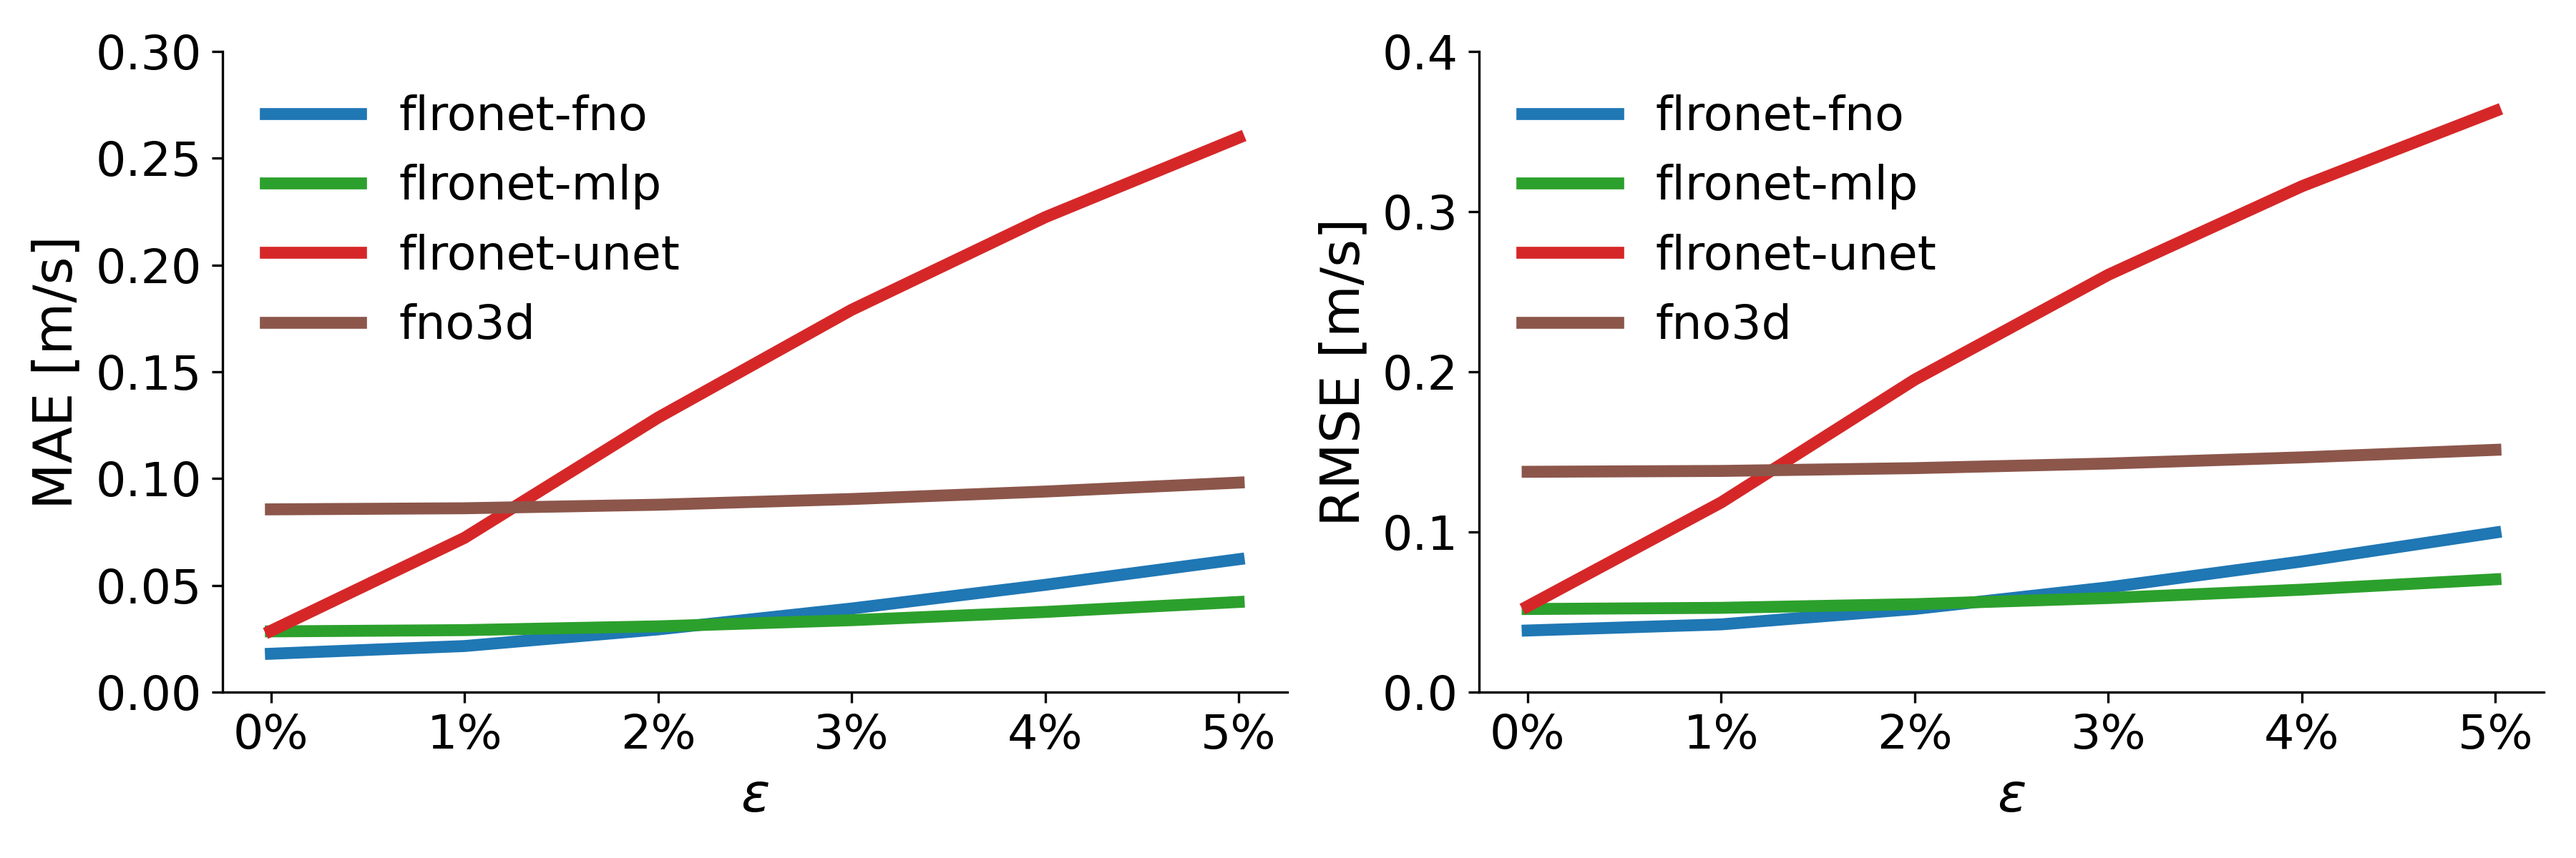
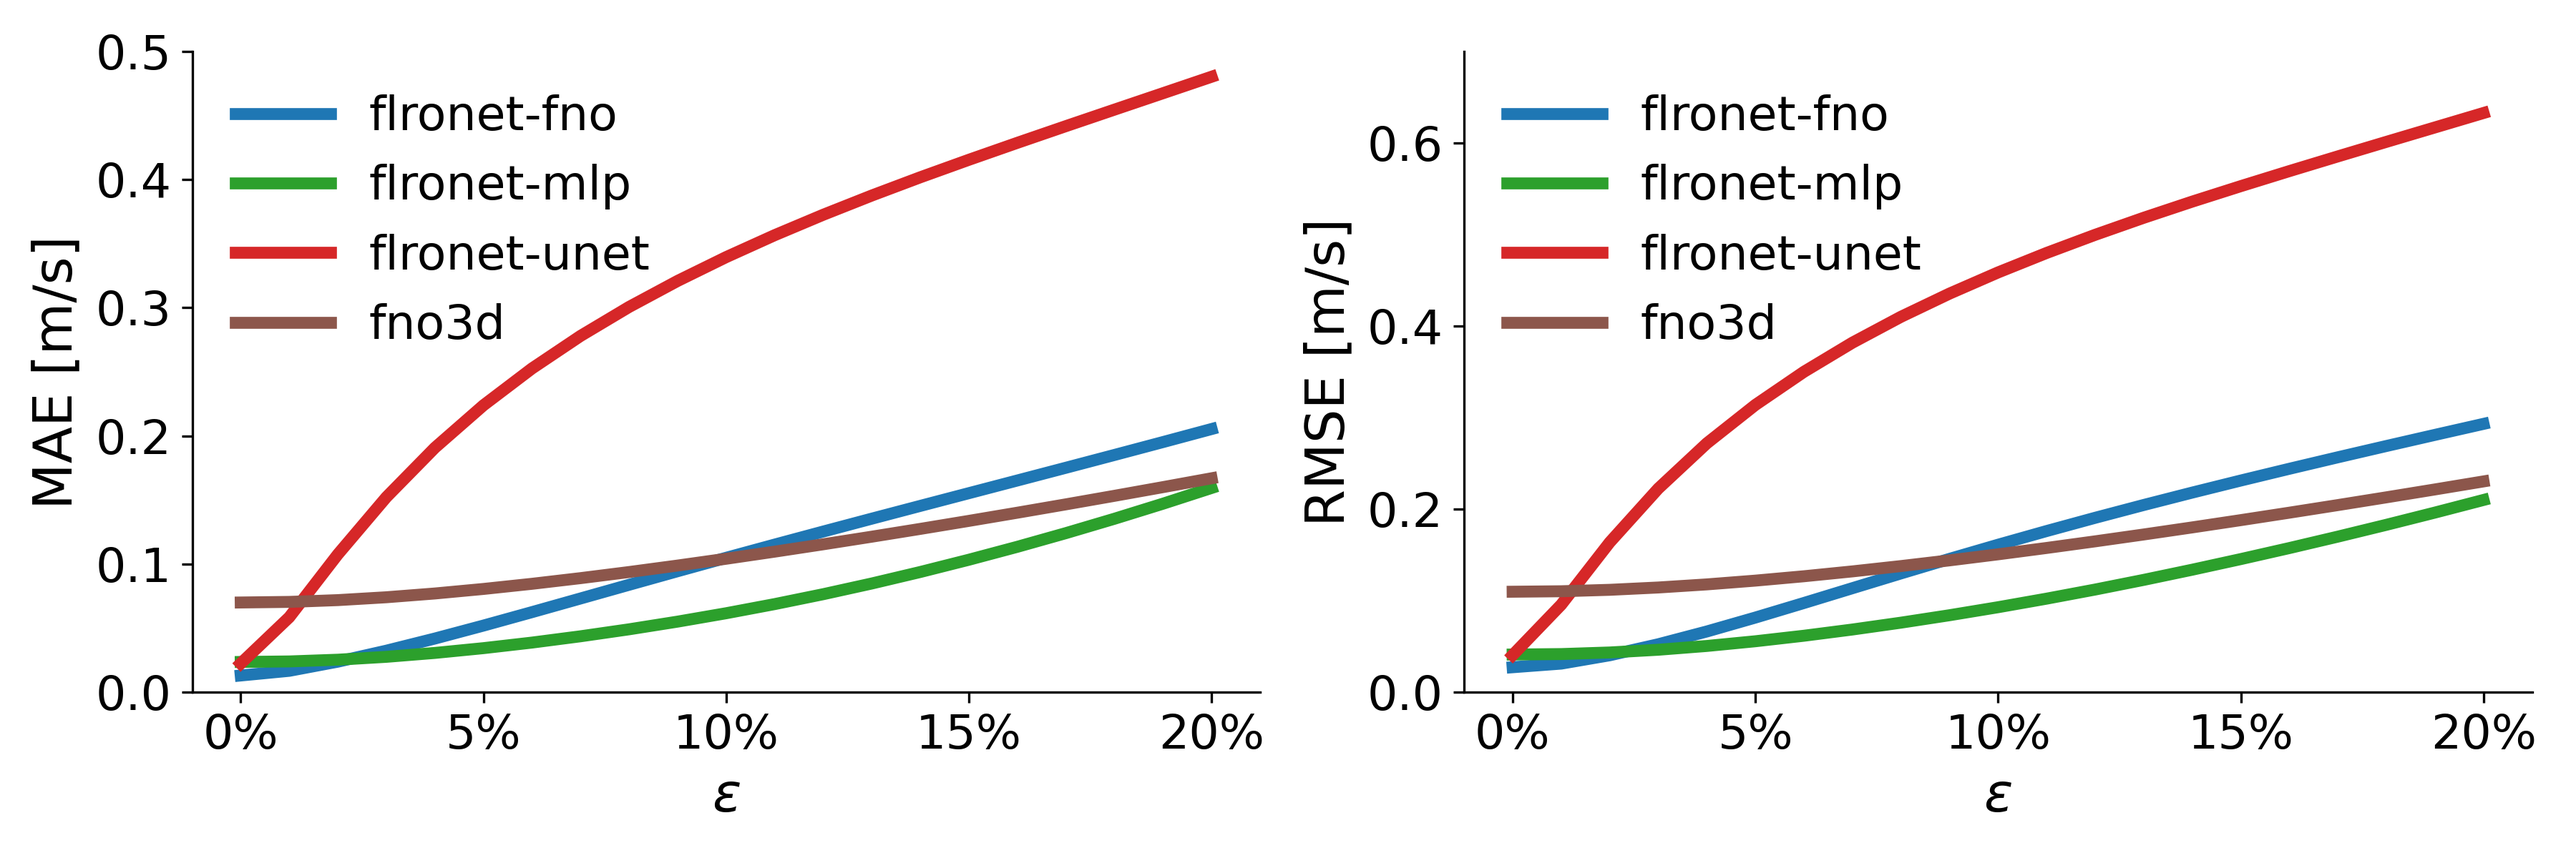
update noise experiments

diff --git a/report/super_res_space.py b/report/super_res_space.py
@@ -14,9 +14,9 @@ fig, axs = plt.subplots(1, 2, figsize=(10, 3.5))
 # V100 subplot
 axs[0].plot(positions, flronet_v100, marker='s', linestyle='-', color='tab:blue', label="flronet-fno", linewidth=2, markersize=6)
 axs[0].plot(positions, fno3d_v100, marker='s', linestyle='-', color='tab:red', label="fno3d", linewidth=2, markersize=6)
-axs[0].set_title("Tesla V100", fontsize=18)
-axs[0].set_xlabel("Scale", fontsize=16, labelpad=10)
-axs[0].set_ylabel("Inference Time [s]", fontsize=18, labelpad=10)
+axs[0].set_title("Tesla V100", fontsize=16)
+axs[0].set_xlabel("Scale", fontsize=14, labelpad=10)
+axs[0].set_ylabel("Inference Time [s]", fontsize=16, labelpad=10)
 axs[0].set_xticks(positions)
 axs[0].set_xticklabels(scales, fontsize=14)
 axs[0].tick_params(axis='both', which='major', length=6, width=1.3, labelsize=14)
@@ -29,8 +29,8 @@ axs[0].spines['bottom'].set_linewidth(1.3)
 # A100 subplot
 axs[1].plot(positions, flronet_a100, marker='s', linestyle='-', color='tab:blue', label="flronet-fno", linewidth=2, markersize=6)
 axs[1].plot(positions, fno3d_a100, marker='s', linestyle='-', color='tab:red', label="fno3d", linewidth=2, markersize=6)
-axs[1].set_title("A100 SXM4", fontsize=18)
-axs[1].set_xlabel("Scale", fontsize=16, labelpad=10)
+axs[1].set_title("A100 SXM4", fontsize=16)
+axs[1].set_xlabel("Scale", fontsize=14, labelpad=10)
 axs[1].set_xticks(positions)
 axs[1].set_xticklabels(scales, fontsize=14)
 axs[1].tick_params(axis='both', which='major', length=6, width=1.3, labelsize=14)

diff --git a/report/noise.py b/report/noise.py
@@ -27,10 +27,11 @@ axs[0].plot(noise_levels, mae_fno3d, color='tab:brown', label='fno3d', linewidth
 axs[0].set_xlabel(r'$\epsilon$', fontsize=18)
 axs[0].set_ylabel('MAE [m/s]', fontsize=18)
 axs[0].tick_params(axis='both', labelsize=16)
-axs[0].set_xticks(noise_levels)
-axs[0].set_xticklabels([f"{int(level * 100)}%" for level in noise_levels])
+filtered_levels = [level for level in noise_levels if (level * 100) % 5 == 0]
+axs[0].set_xticks(filtered_levels)
+axs[0].set_xticklabels([f"{int(level * 100)}%" for level in filtered_levels])
 axs[0].legend(fontsize=16, frameon=False)
-axs[0].set_ylim(0, 0.3)
+axs[0].set_ylim(0, 0.5)
 axs[0].spines['top'].set_visible(False)
 axs[0].spines['right'].set_visible(False)
 
@@ -42,10 +43,11 @@ axs[1].plot(noise_levels, rmse_fno3d, color='tab:brown', label='fno3d', linewidt
 axs[1].set_xlabel(r'$\epsilon$', fontsize=18)
 axs[1].set_ylabel('RMSE [m/s]', fontsize=18)
 axs[1].tick_params(axis='both', labelsize=16)
-axs[1].set_xticks(noise_levels)
-axs[1].set_xticklabels([f"{int(level * 100)}%" for level in noise_levels])
+filtered_levels = [level for level in noise_levels if (level * 100) % 5 == 0]
+axs[1].set_xticks(filtered_levels)
+axs[1].set_xticklabels([f"{int(level * 100)}%" for level in filtered_levels])
 axs[1].legend(fontsize=16, frameon=False)
-axs[1].set_ylim(0, 0.4)
+axs[1].set_ylim(0, 0.7)
 axs[1].spines['top'].set_visible(False)
 axs[1].spines['right'].set_visible(False)
 

diff --git a/common/plotting.py b/common/plotting.py
@@ -68,7 +68,7 @@ def plot_frame(
     if num_plots == 1:
         axs = [axs]  # Ensure axs is iterable if only one subplot
     
-    max_value: float = 11.
+    max_value: float = 10.
     for frame, ax, chart_title in zip(frames_to_plot, axs, chart_titles):
         if chart_title == 'Error':
             norm = matplotlib.colors.Normalize(vmin=-max_value, vmax=max_value)
